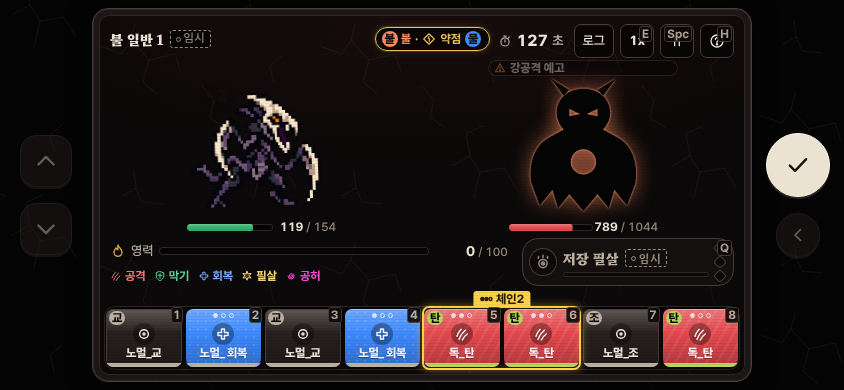
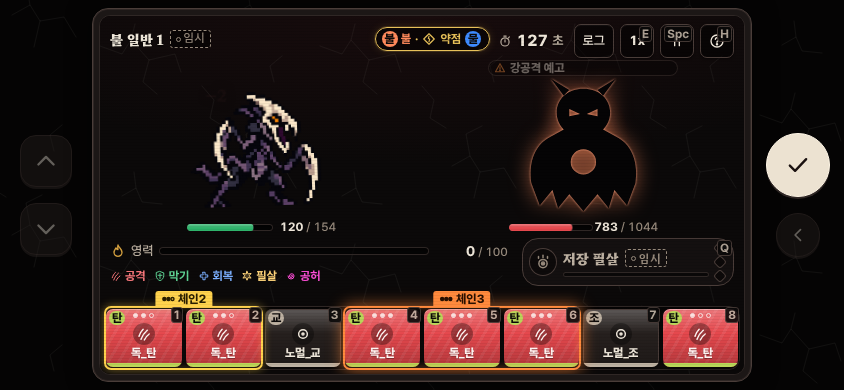
WIP C.97: 등급전 No.1 공격 0.46(같은 패턴 순서), GDD v5.94 44-1·dev-log, 캡처 재촬영
Claude-Session: https://claude.ai/code/session_01L1CSGbP8J2C7xhHwd3gJbR

diff --git a/docs/GDD.md b/docs/GDD.md
@@ -1,4 +1,4 @@
-# 호로 / 사신 키우기 — 기획서 v5.93 (Claude Code 인수인계용)
+# 호로 / 사신 키우기 — 기획서 v5.94 (Claude Code 인수인계용)
 
 > 프로젝트 이름: 블리치 할로우 어센션 (Bleach Hollow Ascension). 변경 이력과 결정 기록은 12장, 개발 로드맵과 현재 상태는 13장. 기획은 이 문서 하나가 기준이다.
 
@@ -362,6 +362,9 @@ data/
 
 ### v1.6 (2026-10-18)
 - 16-6 추가: **세로 화면에서도 기기 UI를 가로로 회전해 출력**한다(사용자 결정). "가로로 돌려주세요" 안내와 세로 자동 일시정지는 폐기. T-3(C.27)에 포함.
+
+### v5.94 (2026-10-21, 코딩76 — C.97 구현 결과)
+- 44-1 추가: 블록 풀 B안(마스터I 결정) — 흡수 블록은 특성마다 4초 타이머, 기본 블록 5종은 별도 타이머(2.8초 × (1 + 3 × 장착 칸))에서 가중 추첨. 44장 1·3번(타이머 하나·흡수 몫 %표)은 B안으로 바뀜. 속도 성향 = 흡수 타이머 ×1.1. 45장 1번(치명 상한 50%, 물 특성만 그 값만큼 돌파)·5번(허 방무·허 리스크 삭제) 함께 구현. 리스크 흡수 계수 0.2→0.28, 등급전 No.4·No.1 공격 0.375→0.46. BALANCE_VERSION 50.
 
 ### v5.93 (2026-10-21, 마스터I)
 - 45장 추가(일부 사용자 확인 대기, 08:20 허 방무 삭제 확정 추가): 치명타 확률 상한 50%, 물만 속성 특성만큼 상한 돌파(확정 지시). 치명 피해 1.5배 유지 추천, 불 속성 특성 화상 → 고정 추가 피해 추천, 4단계 자속성 특수 블록 해석 — 사용자 답 대기.
@@ -2594,6 +2597,14 @@ data/
 5. **체인·계열 규칙은 그대로**: 같은 계열 공격 블록끼리 체인(17-3). 기본 공격 블록도 자기 계열이 있어서 같은 계열 흡수 특성과 체인이 된다. 같은 계열 특성을 여러 칸 장착할 때의 `familySpawnSlowdown`(타이머 방식 보정)은 가중 추첨에 맞게 정리(겹친 계열 특성의 몫을 그만큼 낮춤 또는 삭제 — 코드 세션이 측정해 정하고 기록).
 6. **나머지 그대로**: 필살·공허·콤보·해방 블록 규칙, 블록 바 칸 수, 흡수 조건(흡수 화면 '장착 기술 없음' 조건은 "장착 흡수 특성 0칸"으로 뜻 유지). 테스트 모드 기본 특성(42-1)은 그대로 둬도 되고 필요 없어지면 정리.
 7. 수치는 모두 `balance.ts` provisional, BALANCE_VERSION +1. 봇(사람형·무작위)도 새 풀에 맞춘다. 측정: 3-5 전투 시간, 권장 단계 등가·스토리 보스·탑·등급전 No.1·특성 몫 가드 전부 재측정, 벗어나면 1번 간격·2번 세기로 맞춘다(조정 3회 규칙).
+
+### 44-1. 구현 결과 (C.97, 코딩76, v5.94)
+- **B안으로 바뀜(마스터I 결정 08:24)**: 1번 "타이머 하나·간격 1.6초"와 3번 "흡수 몫 0/35/50/65%"는 쓰지 않는다. 단일 타이머(1.6초)는 초반이 너무 쉽고(사람형 일반 29~34초·강적 87~92%), 2.8초로 맞추면 후반 몸(칸 4~7)의 블록이 옛 규칙의 1/3~1/5 로 줄어 보스 28%·등급전 No.1 0%·탑 50층 0% 로 무너졌다(칸 보정도 한 값으로 못 맞춤).
+- **지금 규칙**: 흡수 특성 블록 = 특성마다 타이머 `combat.blockSpawnSeconds` 4초(같은 계열 겹침 `familySpawnSlowdown` 1·블록 가속·허 연쇄 그대로). 기본 블록 5종 = 별도 타이머 하나, 간격 `blockPool.basicSpawnSeconds` 2.8초 × (1 + `basicSlowdownPerSlot` 3 × 장착 흡수 칸), 나올 때마다 공격 계열 각 10 · 막기 7 · 회복 7 가중 추첨(막기·회복 세기 70%). 성향 보정은 4번 그대로, 속도(spd)는 흡수 타이머 ×1.1(흡수 비율 상승). 연쇄는 모든 타이머를 앞당긴다.
+- **실제 블록 비율**(성향 없음, 초당): 0칸 기본 100%(2.8초에 1개) · 1칸 흡수 74% / 기본 26%(기본 11.2초에 1개) · 2칸 91% / 9% · 3칸 95% / 5% · 7칸 99% / 1%. 칸이 늘수록 기본 블록이 줄어 2칸부터 막기·회복 기본 블록은 드물다(후반 가드가 요구한 값 — 사용자 체감 확인 필요).
+- **측정**(사람형 봇, 전 → 후): 빈 몸 일반 46.6 → 42.7초·강적 43 → 88%(91.9초) / 특성 1개 39.4 → 36.5초·67 → 83% / 공격+막기 30.9 → 30.8초·82 → 85% / 같은 계열 2개 39.2 → 37.5초·67 → 80%. 4바퀴 끝 리스크 43.5 → 43.9, 해방 +8.1 → +9.8%p, 등급전 No.1 28 → 12%, 탑 50층 43 → 43%, 보스 ★2 56 → 53%·★4 61 → 57%. balance:check 전부 통과.
+- 5번 "공격+막기 2칸이 빈 몸보다 약함": 85% vs 88% 로 여전히 조금 낮다. k 를 낮추면 특성 1개 빌드가 강적 목표 상한(85%)을 넘어 k 3 유지.
+- 같이 바꾼 수치: 리스크 `absorbPerHpAttack` 0.2 → 0.28(기본 블록이 섞여 흡수 조건이 덜 채워져 흡수 5회대 → 3.9회, 허 리스크 삭제까지 겹쳐 끝 리스크 34), 등급전 No.4(허) 공격 0.375 → 0.46(허 방무 삭제로 약해진 몫 1/0.85), No.1 공격 0.375 → 0.46(같은 패턴끼리 위 번호가 약하지 않게 + 순위 가드).
 
 ## 45. 치명타 상한·물 돌파 · 불 특성 · 4단계 자속성 블록 (v5.93, 사용자 2026-10-21 07:56 — 1번만 확정, 2~4번 사용자 답 대기)
 - **사용자 원문**: "크리율 최대 50% 상한두고 물만 특성만큼 상한 돌파 가능하게 설정, 크리데미지는 1.3배랑 1.5배 중 추천좀 바스트로데부턴 각 속성에 맞춰 자속성 특수 블록으로 바꿀거임(싹 다) / 불은 지속뎀 말고 방어력 뚫는 공격력으로 할까? 고정데미지라던가ㅇㅇ / 왜나면 독이람 불 중첩특성이면 지속뎀만 2개자나?"

diff --git a/docs/dev-log.md b/docs/dev-log.md
@@ -598,8 +598,13 @@ C.0 ~ C.59 는 `docs/dev-log-archive.md` 로 옮겼다(2026-10-20, 사용량 절
 **테스트** `tests/c96.test.ts` +9 (무대 이름 종족 2 × 2, 띠 CSS·대기열·새 트랙 경로, 더보기 아이콘).
 **캡처** `docs/captures/c96/`(1배 6장): `01` 흡수 화면 가로 + 알림 2개 · `02` 같은 알림 세로 · `03` 새 트랙 세로 · `04a` 결과(자유) · `04b` 결과(스토리 2장 3화) · `05` 더보기. 탑 결과는 변경 없어 생략.
 
-### C.97 블록 풀 개편 — 미완(작업 브랜치 `c97-block-pool-wip`, main 미반영) (STAGE S-23, 코딩76, GDD 44장)
-사용 모델: Opus 5.5. 사용자 원문: "독 탄을 흡수하면 … 독 탄만 나오잖아 / 그게 아냐 / 모든 블록 나오는데, 거기에 독 탄도 같이나오는거야 / 흡수 비율이나 캐릭 특성에 따라 다른 블록 나오는 비율을 줄일거야 … 방어랑 회복 블록은 하나도 안나오는듯?"
-- 구현(브랜치): 가중 추첨 풀·타이머 하나·기본 5종(공격 3계열·막기·회복 70%)·흡수 몫 0/35/50/65%·성향 보정·familyShareSlowdown 1(같은 계열 2개 ≈ 1개 세기)·연쇄/블록 가속은 단일 타이머에. 테스트 1181 → 1193, typecheck·test·build 통과. 캡처 `docs/captures/c97/` 01 새 몸·02 독 탄 1칸.
-- **balance:check 실패(조정 3회 소진)**: 기획서 간격 1.6초 → 초반 너무 쉬움(사람형 일반 29~34초·강적 87~92%). 2.8초 → 초반 맞음(일반 42초·강적 87초·skill 1개 강적 81%), 그러나 후반 붕괴: 보스 28%·등급전 No.1 0%·탑 50층 0%. 원인 = 옛 규칙은 특성마다 4초 타이머라 칸 7개 몸이 초당 1.75개, 새 규칙은 칸 수와 무관하게 2.8초에 1개.
-- 칸 보정(2칸째부터 칸마다 속도 +h): h 0.5 → 2칸 빌드 강적 86~89%·보스 86~88%(너무 쉬움)·탑 50층 6% / h 1.0 → 보스 98~100%·탑 50층 23%. 한 값으로 초반·보스·탑을 함께 맞출 수 없음 → 마스터 결정 필요(보고함).
+### C.97 블록 풀 개편(B안) + 치명 상한·허 방무 삭제 (STAGE S-23, 코딩76, GDD 44장 → 44-1 v5.94, 45장 1·5번)
+사용 모델: Opus 5.5. `PATCH_LABEL` C.97, `STAGE_LABEL` S-23. **`BALANCE_VERSION` 49 → 50**, `SAVE_FORMAT_VERSION` 그대로(원정 중간 저장은 밸런스 버전이 다르면 버려짐 — snapshot.ts).
+사용자 원문: "독 탄을 흡수하면 다른 스킬 다 안나오고 독 탄만 나오잖아 / 그게 아냐 / 모든 블록 나오는데, 거기에 독 탄도 같이나오는거야 / 흡수 비율이나 캐릭 특성에 따라 다른 블록 나오는 비율을 줄일거야 / 방어랑 회복 블록은 하나도 안나오는듯? 원래 첨엔 안나오고 나중에 나오나?" · "크리율 최대 50% 상한두고 물만 특성만큼 상한 돌파" · "허 방무 없애"
+- 확인: 옛 규칙은 장착 특성 블록만(없으면 기본 공격 1종) — 막기·회복은 특성을 장착해야만 나옴. "나중에 나오는" 규칙 없음.
+- 블록: 흡수 특성마다 4초 타이머 + 기본 5종(공격 3계열·막기·회복 70%) 별도 타이머 2.8초 × (1 + 3 × 칸), 가중 추첨. 성향 보정, 속도 = 흡수 타이머 ×1.1.
+- 기획서 값 / 실제 값 / 이유: 44장 1번 "타이머 하나 1.6초" / B안(마스터 결정) / 단일 타이머는 초반·후반을 함께 못 맞춤(1.6초 초반 과강, 2.8초 후반 붕괴, 칸 보정 0.5~1.0 도 보스·탑 엇갈림). 44장 3번 흡수 몫 % / 칸별 실제 비율 1칸 74%·2칸 91%·3칸 95% / B안 결과.
+- 함께: 치명 상한 50%, 물 특성 몸만 +특성 값(4단계 58%, 상태 화면 같음). 허 `pierceIgnore`·`pierceRisk` 삭제(속성 도움말 문구 고침). 리스크 흡수 계수 0.2→0.28, 등급전 No.4·No.1 공격 0.46. 튜토리얼 블록 설명 새 규칙.
+- 측정: 44-1 표(빈 몸 42.7초·88% / 특성 1개 36.5초·83% / 끝 리스크 43.9 / No.1 12% / 탑 50층 43%). typecheck·test·balance:check·build 통과.
+- **테스트** 1181 → 1205 (+24: `tests/blockPool.test.ts`, `tests/c97.test.ts`, 기존 테스트 새 규칙 반영).
+- **캡처** `docs/captures/c97/`: 01 새 몸 블록 바(막기·조·교·탄·회복) · 02 독 탄 1칸(독 탄 + 기본 공격) · 03 물 4단계 상태 화면 치명 58%.
